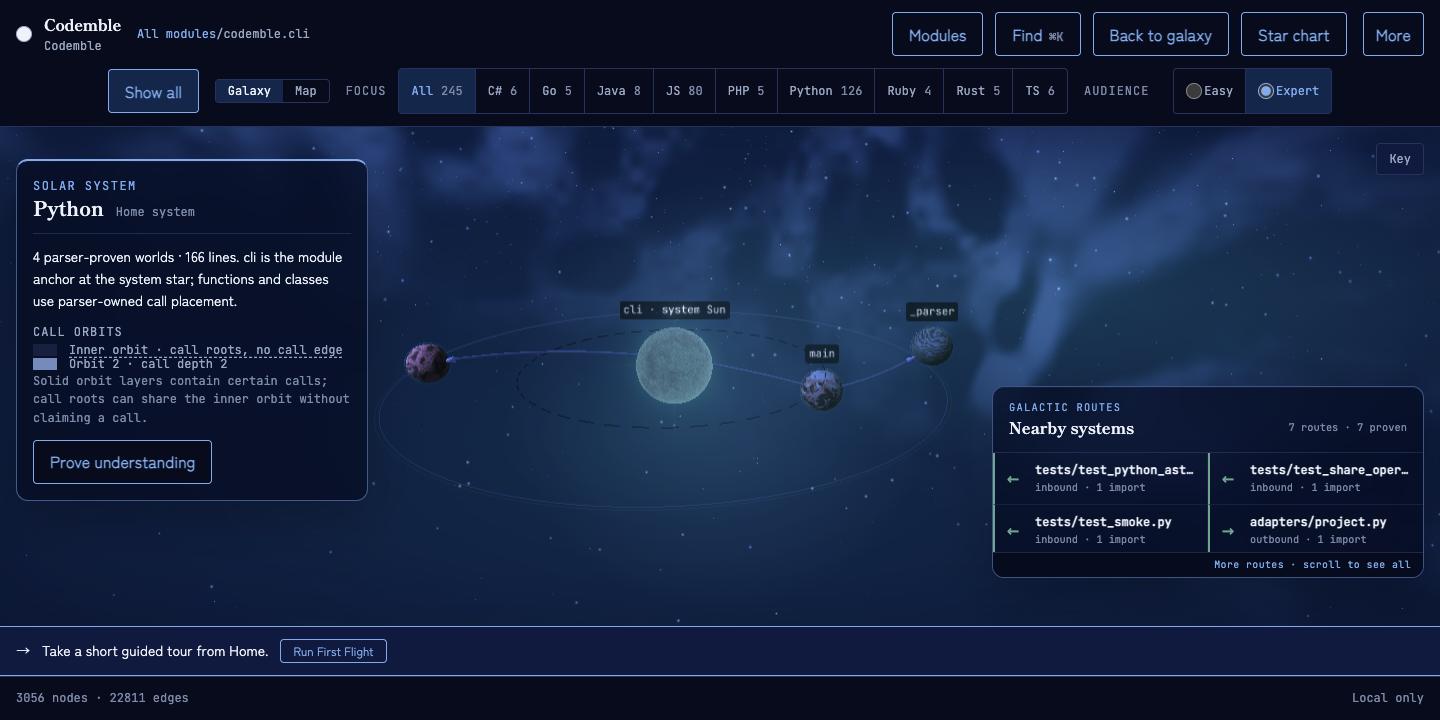
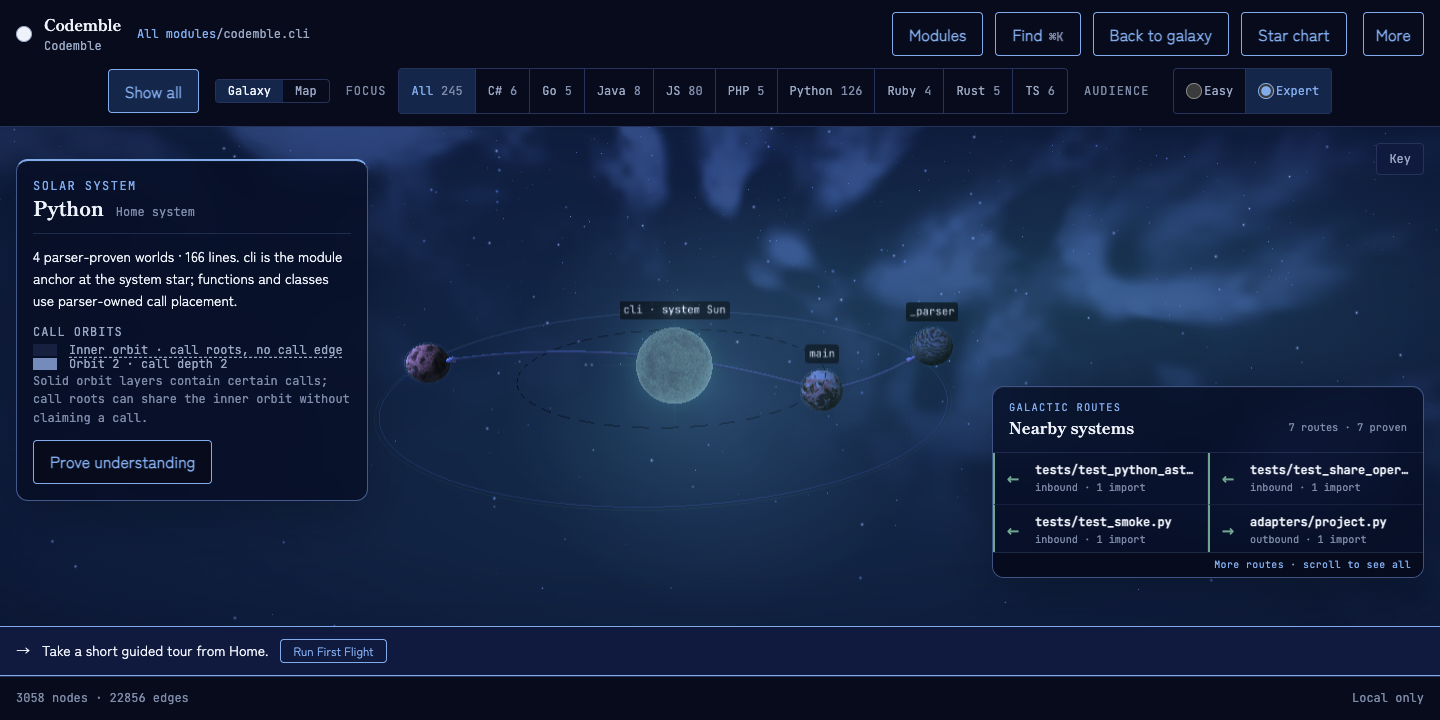
docs: make product captures checkout-independent

diff --git a/CLAUDE.md b/CLAUDE.md
@@ -2348,6 +2348,7 @@ and evidenced.
 
 | 2026-09-10 | Required writer/operator lock preflights fail the service through `ExecStartPre` instead of a start condition | `ConditionPathExists` silently skipped scheduled maintenance when provisioning was missing, so `OnFailure` never reached the durable alert relay. A required regular-file preflight preserves refusal to run while making the failure eligible for alerting. It does not create a lock, replace runtime validation, or prove real systemd/channel execution; the operational gate remains unchecked. |
 | 2026-09-11 | Public documentation separates the verified v0.22.0 install and artifacts from current-source product previews; repository captures are regenerated from current source and labelled without a release number | Post-v0.22.0 planetary graphics and sharing-foundation code made the prior “everything pictured ships” claim false. Stable commands, checksums, and downloads still derive from `release.json`, while current screenshots and roadmap language describe unreleased source without implying that the release gate passed. |
+| 2026-09-25 | Product captures parse a Git-filtered current-source snapshot named `Codemble` and normalize the displayed graph root to `/capture/Codemble` before the UI renders | The previous workflow depended on naming a checkout `Codemble`; arbitrary clone/worktree names could leak into the public header, and ignored build output could alter product counts. The disposable snapshot includes tracked and non-ignored working-tree source, excludes ignored artifacts, and is removed with the server. The UI still exercises the real current source, while one capture-only response field makes the visible identity path-independent and a safety check pins that contract. |
 | 2026-09-11 | Accept cryptography 50, tree-sitter-go 0.25, tree-sitter-rust 0.24, and JetBrains Mono 5.3 together; keep tree-sitter core below 0.26 and align the app and docs font package | Cryptography 50.0.1 preserves the AES-GCM storage/delivery contract across the focused suite; the Go and Rust grammar wheels pass the nine-language semantic oracle and parse 910-node upstream Go plus 162-, 2,380-, and 56-node real Rust corpora with no partial files on core 0.25.2. Fontsource 5.3 adds package typing metadata and produces the same committed app bundle. The JavaScript/core 0.26 crash boundary is unchanged. |
 | 2026-09-11 | Cleanup preserves unique or dirty user work and integrates only the four verified Dependabot heads; release publication stays blocked | Branch age and CI alone do not prove redundancy. The planning ref remains unique, the historical graphics worktree contains uncommitted differences, and the dependency refs become removable only after their exact heads reach verified `main`. Local and hosted checks cannot substitute for the independent operational receipts required by M20, so no version bump, tag, or release is created from this pass unless that evidence appears. |
 

diff --git a/docs-site/src/content/docs/build-from-source.md b/docs-site/src/content/docs/build-from-source.md
@@ -59,10 +59,14 @@ web dependencies installed:
 (cd web && npm run capture:docs)
 ```
 
-The command starts its own current-source server on a random loopback port with
-a unique temporary `CODEMBLE_DATA_DIR`. Provider keys and provider settings are
-removed from that child process, the progress reset must succeed before capture
-continues, and the server plus temporary data are removed afterward. It refuses
-`CODEMBLE_CAPTURE_URL` so it cannot be pointed at a normal Codemble session.
+The command copies Git-tracked and non-ignored current source into a disposable
+`Codemble` snapshot, then starts its own server on a random loopback port with a
+unique temporary `CODEMBLE_DATA_DIR`. Ignored build output and clone/worktree
+names therefore cannot change the capture. Provider keys and provider settings
+are removed from that child process, the progress reset must succeed before
+capture continues, and the server, source snapshot, and temporary data are
+removed afterward. It refuses `CODEMBLE_CAPTURE_URL` so it cannot be pointed at
+a normal Codemble session, and the capture route fixes the displayed project
+label to `Codemble`.
 Set `CODEMBLE_CAPTURE_PYTHON` only when the desired Python executable is not
 named `python`.

diff --git a/docs-site/public/shots/NOTES.md b/docs-site/public/shots/NOTES.md
@@ -11,12 +11,16 @@ npm install
 npm run capture:docs
 ```
 
-`capture_product_shots.mjs` starts its own current-source server on a random
-loopback port and a unique temporary `CODEMBLE_DATA_DIR`. It strips Anthropic,
-OpenAI, and Ollama configuration from that child, verifies the disposable
-progress reset, walks the real first-run UI, and uses the graph-check API to
-earn the lit-state capture. It refuses an external `CODEMBLE_CAPTURE_URL` and
-removes the server and temporary data afterward.
+`capture_product_shots.mjs` copies Git-tracked and non-ignored current source
+into a disposable `Codemble` snapshot, then starts its own server on a random
+loopback port with a unique temporary `CODEMBLE_DATA_DIR`. This keeps ignored
+build output and the checkout directory name out of the product evidence. It
+strips Anthropic, OpenAI, and Ollama configuration from that child, verifies the
+disposable progress reset, walks the real first-run UI, and uses the graph-check
+API to earn the lit-state capture. It refuses an external
+`CODEMBLE_CAPTURE_URL`, normalizes only the displayed graph root to
+`/capture/Codemble`, and removes the server, snapshot, and temporary data
+afterward.
 
 | File | Surface |
 | --- | --- |

diff --git a/docs-site/design.md b/docs-site/design.md
@@ -130,10 +130,12 @@ determinism rule. Output is committed; the site never runs this script at build
 time.
 
 Product captures come from `web/scripts/capture_product_shots.mjs`, which owns
-its throwaway current-source server, random loopback port, and unique temporary
-data directory. It strips provider configuration, verifies its isolated reset,
-and refuses an external server URL. The 1440×720 outputs preserve the real UI
-and cover Galaxy, both Map registers, System, Study, Impact, and the lit result.
+its Git-filtered current-source snapshot, throwaway server, random loopback port,
+and unique temporary data directory. It strips provider configuration, verifies
+its isolated reset, refuses an external server URL, and normalizes the displayed
+project label to `Codemble` so checkout names and ignored build output cannot
+leak into public evidence. The 1440×720 outputs preserve the real UI and cover
+Galaxy, both Map registers, System, Study, Impact, and the lit result.
 
 ## Every page MUST share
 

diff --git a/CHANGELOG.md b/CHANGELOG.md
@@ -16,6 +16,10 @@ Format: [Keep a Changelog](https://keepachangelog.com/en/1.1.0/) · Versioning: 
   package, and full-suite verification.
 
 ### Fixed
+- Product capture now fixes the visible project label to `Codemble`, making the
+  committed screenshots reproducible from arbitrarily named clones and
+  worktrees, and parses a Git-filtered source snapshot so ignored build output
+  cannot alter the public counts.
 - Missing scheduled-maintenance locks now fail startup instead of silently
   skipping the service, making failures eligible for the existing alert relay.
   The preflight also rejects paths that do not resolve to regular files.
